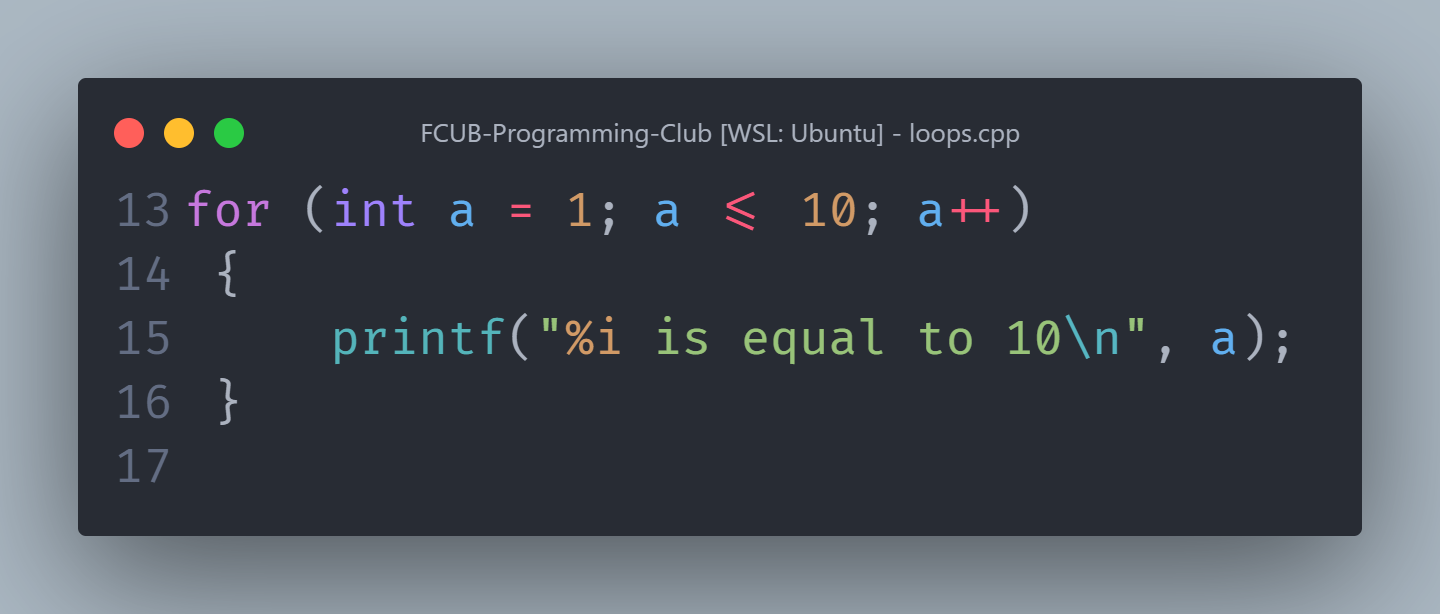
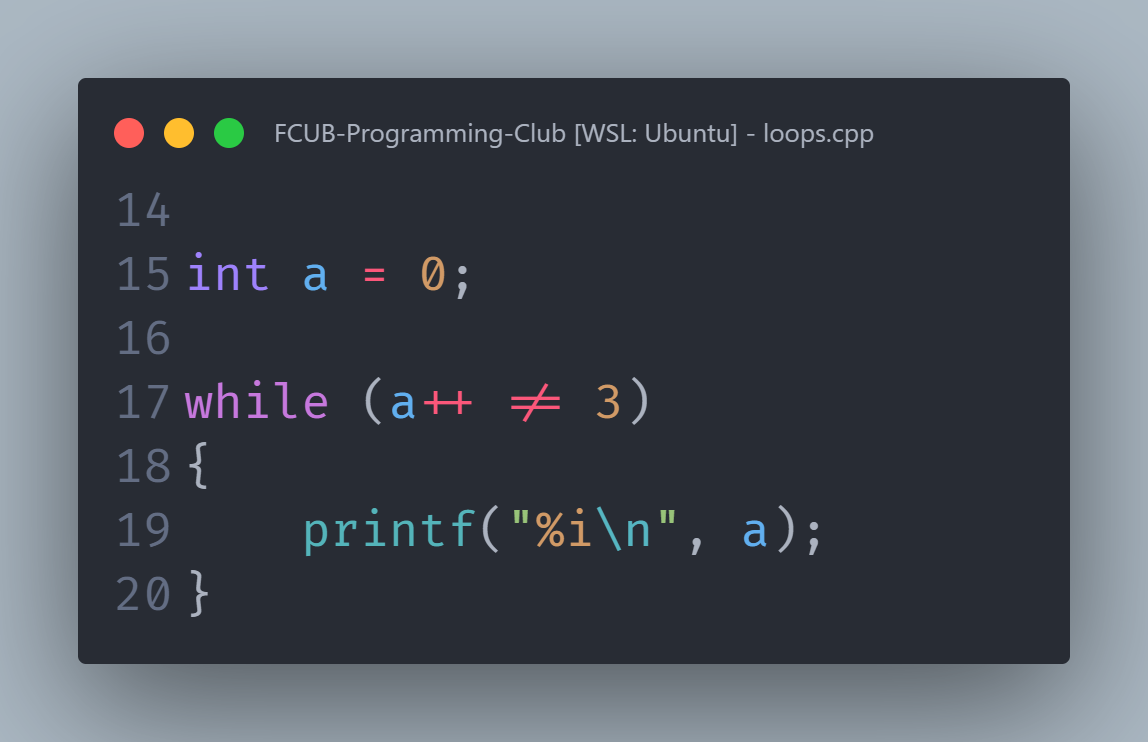
Wed, May 22, 2024, 9:47 PM +06:00

diff --git a/module-2/loops.cpp b/module-2/loops.cpp
@@ -13,10 +13,10 @@ int main()
 
 
     int a = 0;
-    //     1 != 3
-    while (a++ != 3)
+
+    while (++a != 3)
     {
-        printf("%i\n", a);// 2
+        printf("%i\n", a);
     }
 
     return 0;
